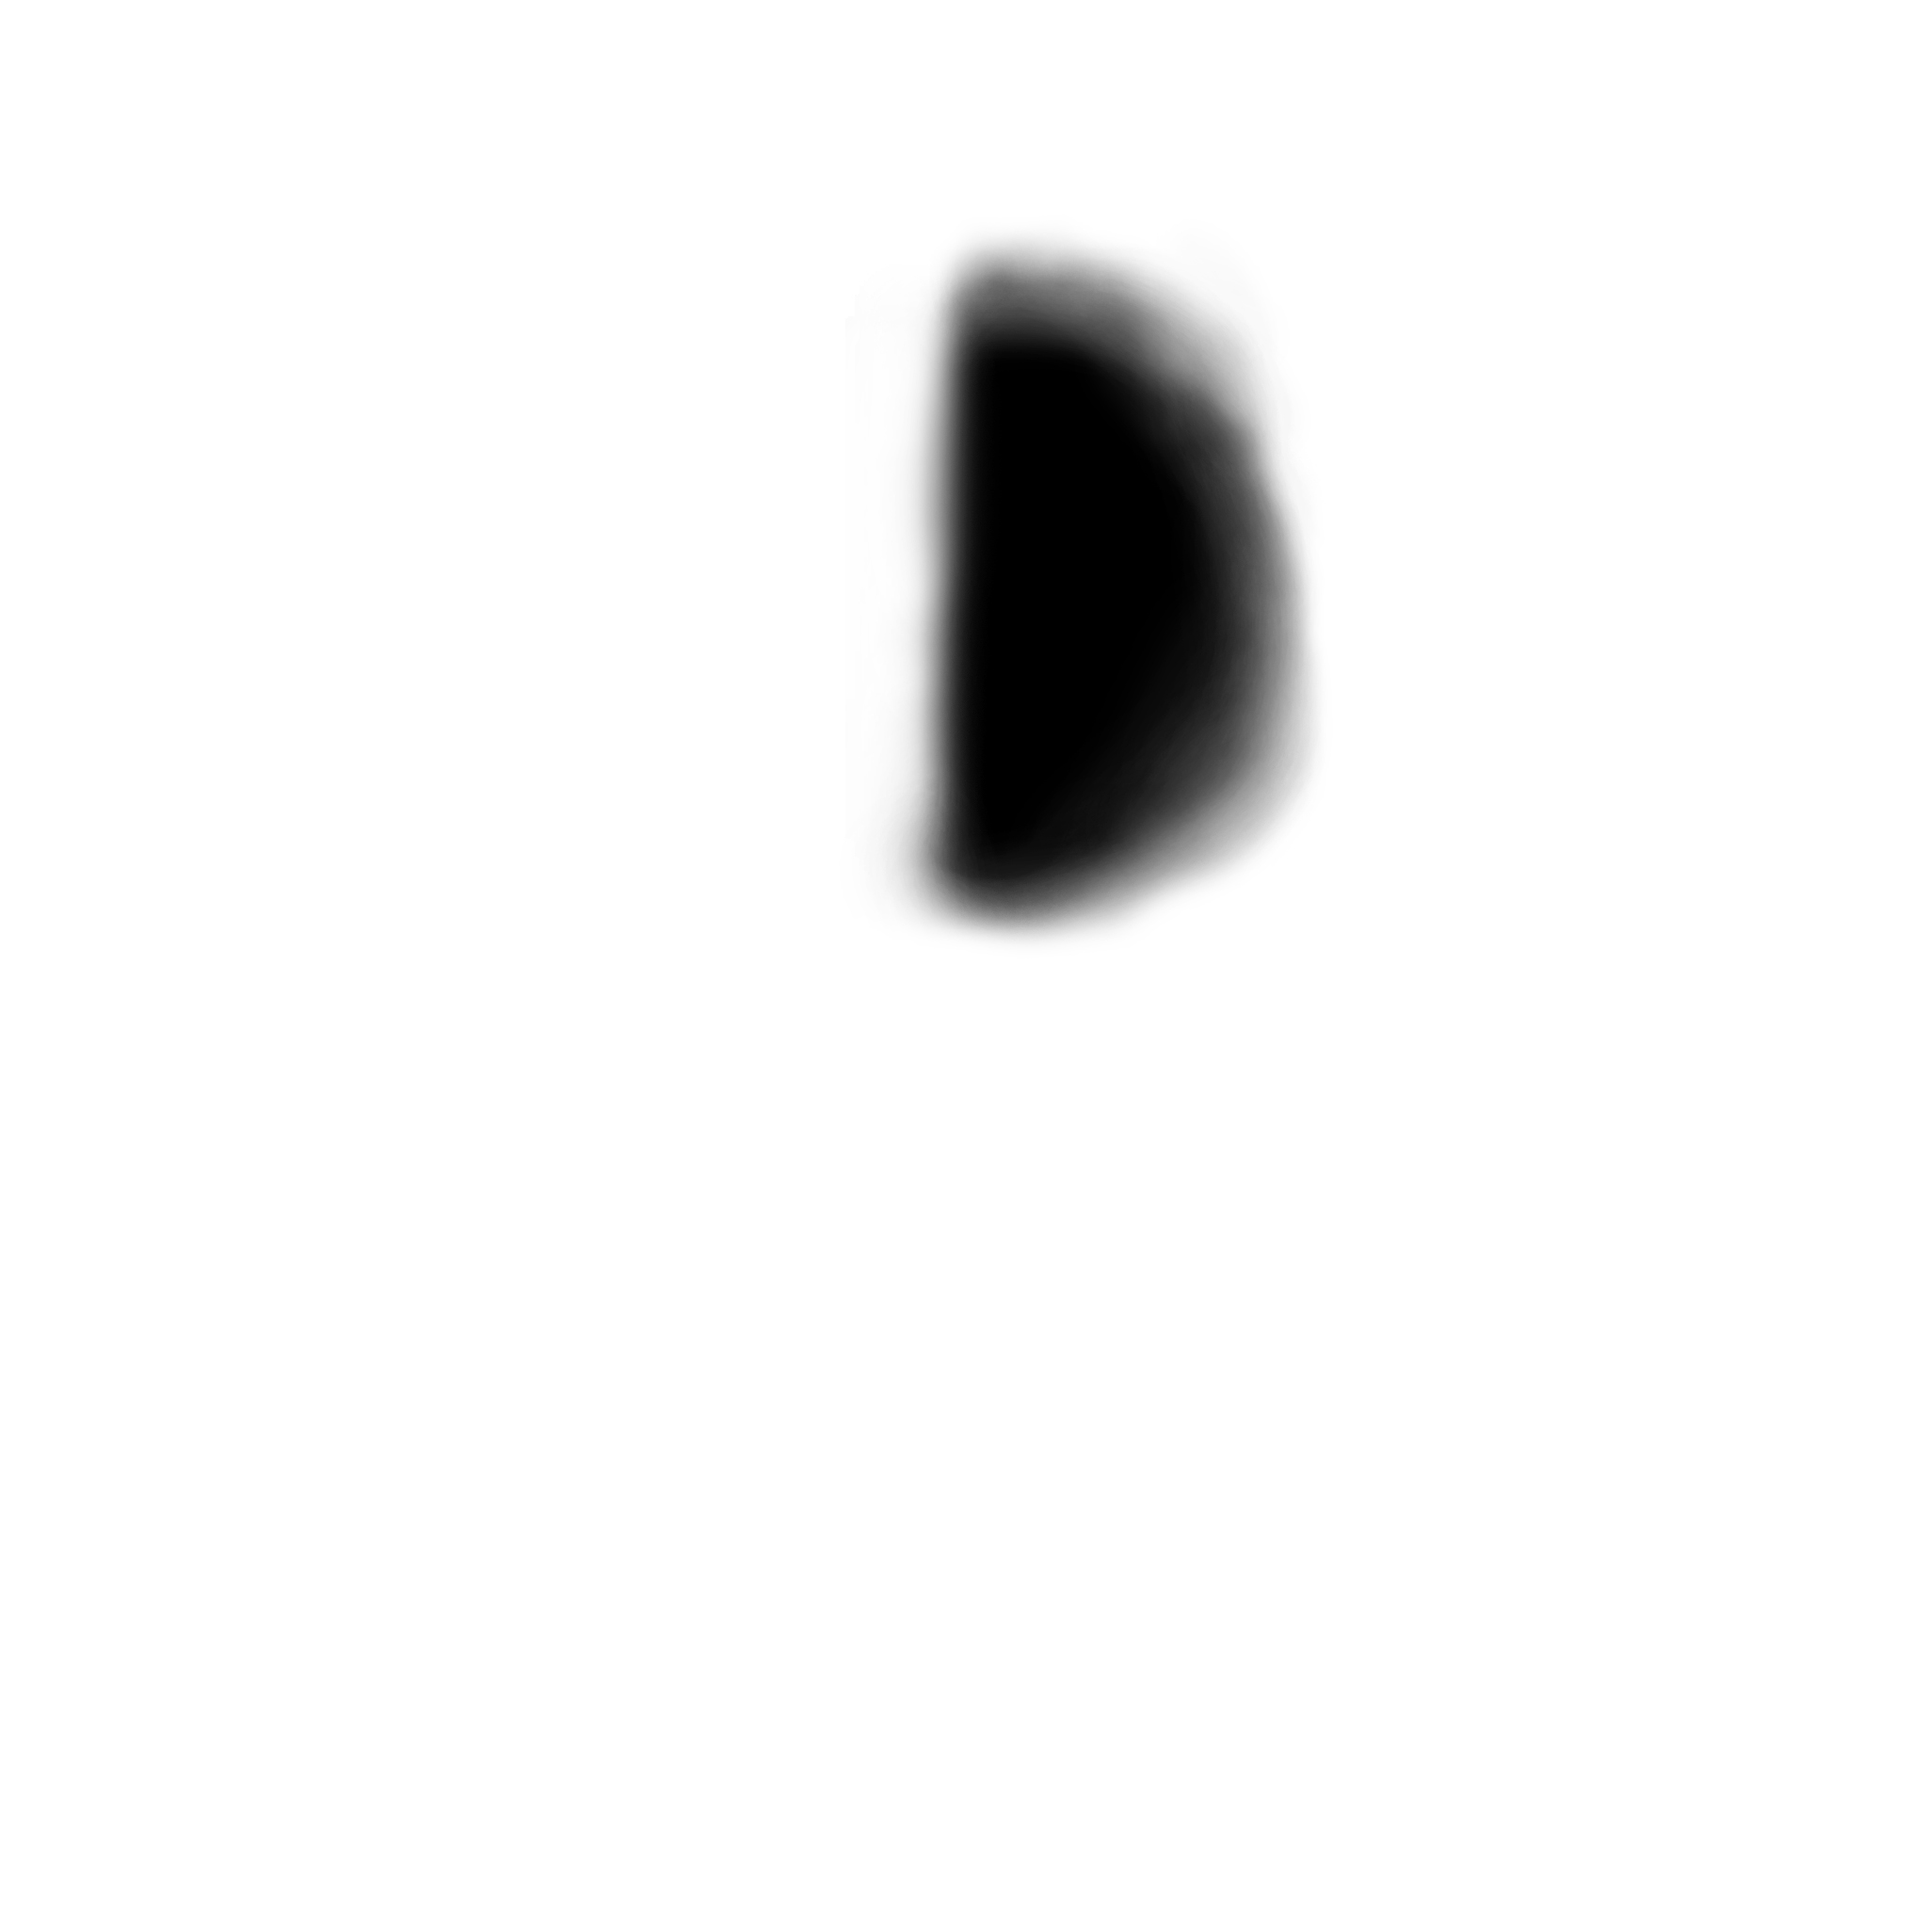
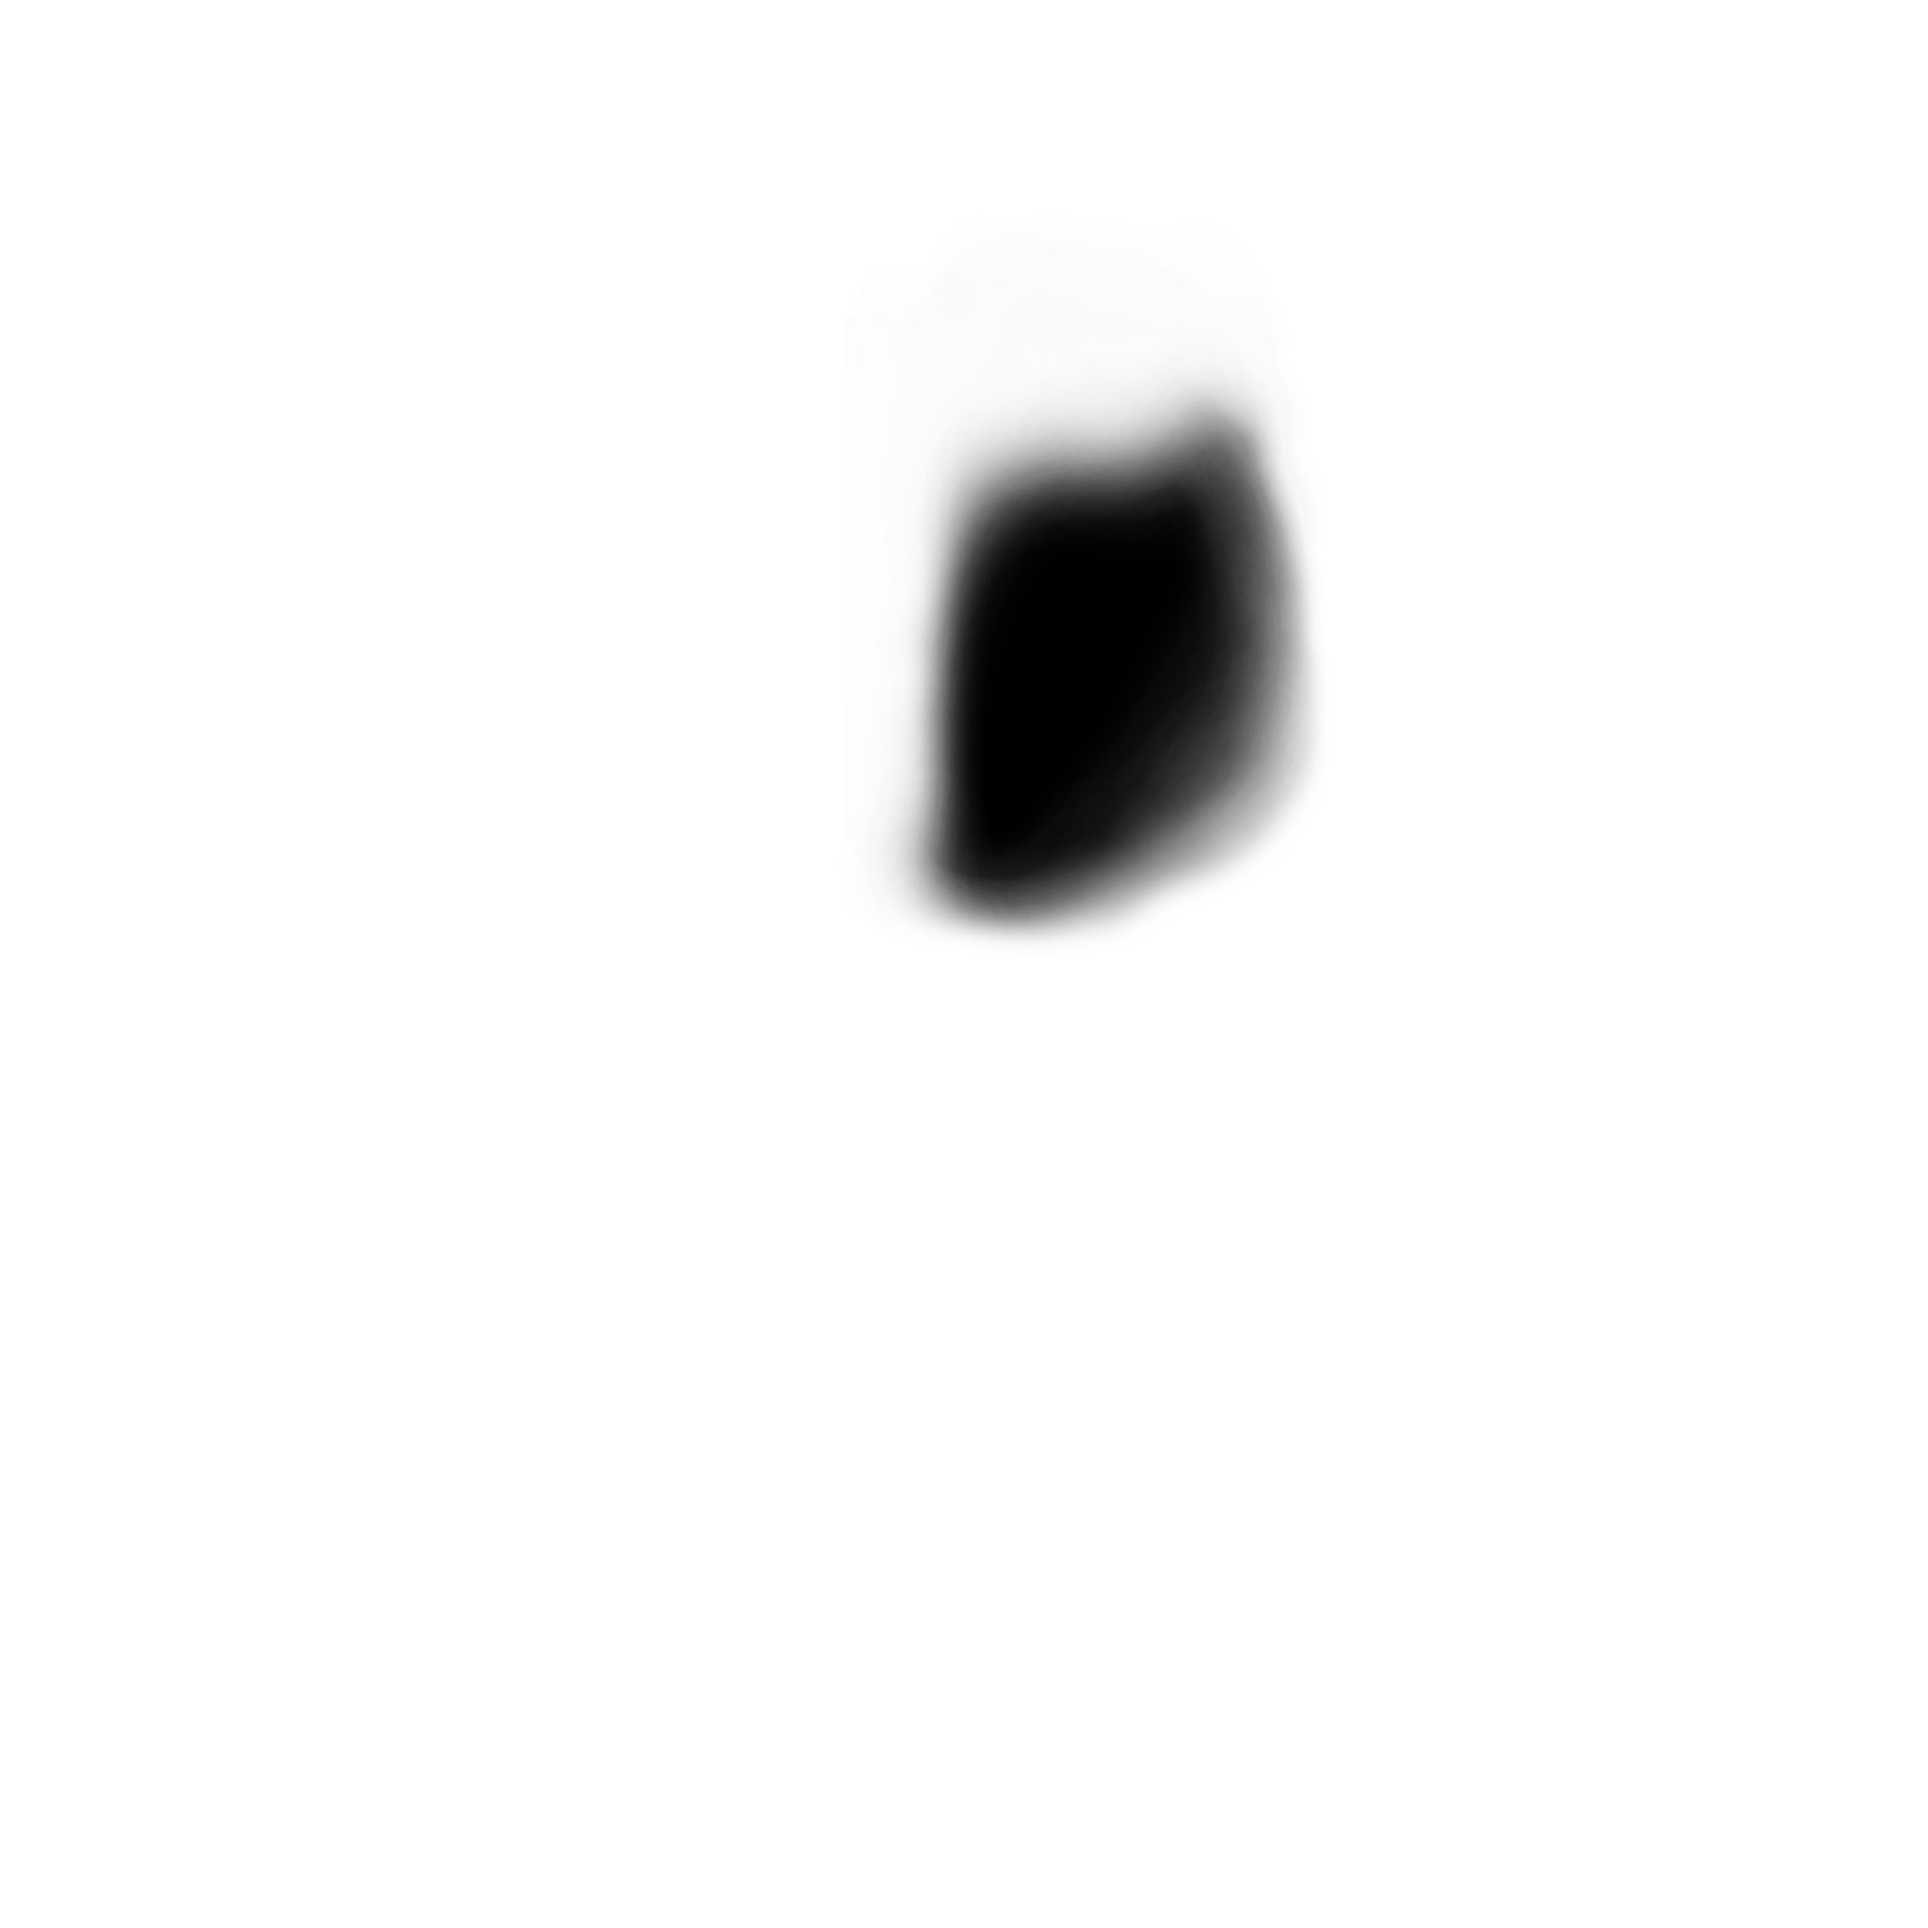
change target color and masks

Changed region(s): [[0.4688, 0.125, 0.6562, 0.3438]]

diff --git a/nativeproj/facecloud/facecloud/Shared/FaceCloudLib.cpp b/nativeproj/facecloud/facecloud/Shared/FaceCloudLib.cpp
@@ -346,8 +346,8 @@ string FaceCloudLib::CalculateReal(string modelID, string photoPath, string json
 		}
 		else
 		{
-			m_targetcolor = cv::Vec3s(200, 169, 140);
-			m_basecolor = cv::Vec3s(200, 169, 140);
+			m_targetcolor = cv::Vec3s(210, 172, 138);
+			m_basecolor = cv::Vec3s(208, 170, 136);
 		}
 
 		JsonFaceInfo jsonfaceinfo;
